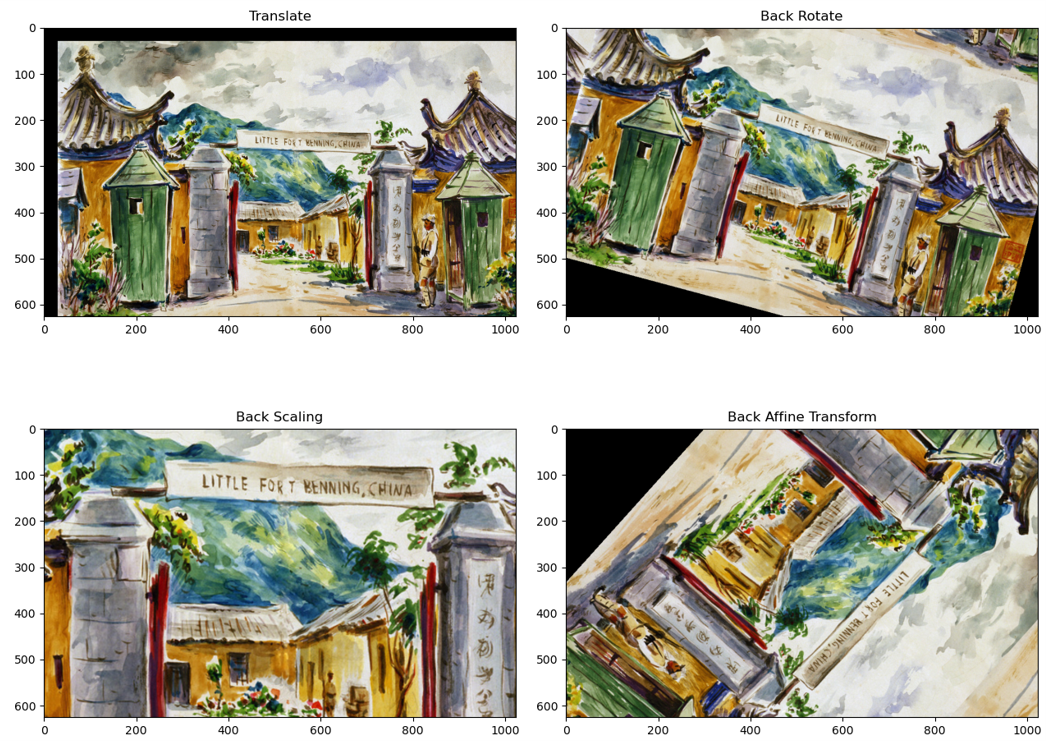
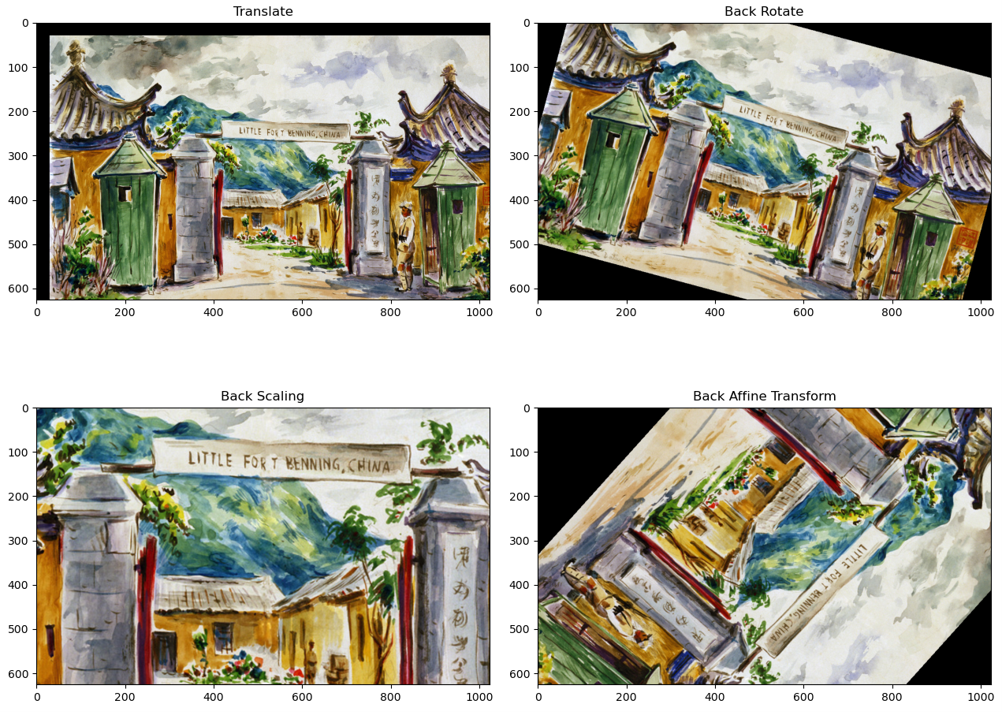
update transform code

diff --git a/src/transform/affine_transform.py b/src/transform/affine_transform.py
@@ -16,9 +16,11 @@ class AffineTransform2D(object):
         if img is None:            
             width, height = self.width, self.height
             img = self.img
+            cx, cy = self.cx, self.cy
         else:                        
             width, height = img.size
             img = np.array(img.getdata()).reshape(height, width, 3).tolist()
+            cx, cy = width // 2, height // 2
 
         output_img = [[[0 for _ in range(3)] for _ in range(width)] for _ in range(height)]
 
@@ -114,10 +116,11 @@ class AffineTransform2D(object):
                 for ch in range(3):
                     rx = round(cx + math.cos(theta) * (x - cx) - math.sin(theta) * (y - cy))
                     ry = round(cy + math.sin(theta) * (x - cx) + math.cos(theta) * (y - cy))
-                    try:
-                        output_img[ry][rx][ch] = img[y][x][ch]
-                    except:
-                        continue
+                    if 0 <= ry <= height - 1 and 0 <= rx <= width - 1:
+                        try:
+                            output_img[ry][rx][ch] = img[y][x][ch]
+                        except:
+                            continue
         return output_img
 
 
@@ -141,23 +144,24 @@ class AffineTransform2D(object):
                     origin_pos_x = cx + math.cos(-theta) * (x - cx) - math.sin(-theta) * (y - cy)
                     origin_pos_y = cy + math.sin(-theta) * (x - cx) + math.cos(-theta) * (y - cy)
 
-                    x_low = math.floor(origin_pos_x)
-                    x_up = math.ceil(origin_pos_x)
-                    y_low = math.floor(origin_pos_y)
-                    y_up = math.ceil(origin_pos_y)
-                    
-                    s = origin_pos_x - x_low
-                    t = origin_pos_y - y_low
+                    if 0 <= origin_pos_y <= height - 1 and 0 <= origin_pos_x <= width - 1:
+                        x_low = math.floor(origin_pos_x)
+                        x_up = math.ceil(origin_pos_x)
+                        y_low = math.floor(origin_pos_y)
+                        y_up = math.ceil(origin_pos_y)
+                        
+                        s = origin_pos_x - x_low
+                        t = origin_pos_y - y_low
 
-                    try:
-                        p1 = img[y_low][x_low][ch]
-                        p2 = img[y_low][x_up][ch]
-                        p3 = img[y_up][x_low][ch]
-                        p4 = img[y_up][x_up][ch]
+                        try:
+                            p1 = img[y_low][x_low][ch]
+                            p2 = img[y_low][x_up][ch]
+                            p3 = img[y_up][x_low][ch]
+                            p4 = img[y_up][x_up][ch]
 
-                        output_img[y][x][ch] = int((1 - s) * (1 - t) * p1 + (1 - s) * t * p3 + (1 - t) * s * p2 + s * t * p4)
-                    except:
-                        continue
+                            output_img[y][x][ch] = int((1 - s) * (1 - t) * p1 + (1 - s) * t * p3 + (1 - t) * s * p2 + s * t * p4)
+                        except:
+                            continue
         return output_img
 
 
@@ -185,12 +189,13 @@ class AffineTransform2D(object):
         for y in range(self.height):
             for x in range(self.width):
                 for ch in range(3):
-                    ax = round(cx + (a * (x - cx) + b * (y - cy) + c))
-                    ay = round(cy + (d * (x - cx) + e * (y - cy) + f))
-                    try:
-                        output_img[ax][ay][ch] = img[y][x][ch]
-                    except:
-                        continue
+                    ax = int(cx + (a * (x - cx) + b * (y - cy) + c))
+                    ay = int(cy + (d * (x - cx) + e * (y - cy) + f))
+                    if 0 <= ay <= height - 1 and 0 <= ax <= width - 1:
+                        try:
+                            output_img[ay][ax][ch] = img[y][x][ch]
+                        except:
+                            continue
 
         return output_img
 
@@ -223,23 +228,24 @@ class AffineTransform2D(object):
                 for ch in range(3):
                     origin_pos_x = cx + (a * (x - cx) + b * (y - cy) + c)
                     origin_pos_y = cy + (d * (x - cx) + e * (y - cy) + f)
-
-                    x_low = math.floor(origin_pos_x)
-                    x_up = math.ceil(origin_pos_x)
-                    y_low = math.floor(origin_pos_y)
-                    y_up = math.ceil(origin_pos_y)
                     
-                    s = origin_pos_x - x_low
-                    t = origin_pos_y - y_low
+                    if 0 <= origin_pos_y <= height - 1 and 0 <= origin_pos_x <= width - 1:
+                        x_low = math.floor(origin_pos_x)
+                        x_up = math.ceil(origin_pos_x)
+                        y_low = math.floor(origin_pos_y)
+                        y_up = math.ceil(origin_pos_y)
+                        
+                        s = origin_pos_x - x_low
+                        t = origin_pos_y - y_low
 
-                    try:
-                        p1 = img[y_low][x_low][ch]
-                        p2 = img[y_low][x_up][ch]
-                        p3 = img[y_up][x_low][ch]
-                        p4 = img[y_up][x_up][ch]
+                        try:
+                            p1 = img[y_low][x_low][ch]
+                            p2 = img[y_low][x_up][ch]
+                            p3 = img[y_up][x_low][ch]
+                            p4 = img[y_up][x_up][ch]
 
-                        output_img[y][x][ch] = int((1 - s) * (1 - t) * p1 + (1 - s) * t * p3 + (1 - t) * s * p2 + s * t * p4)                    
-                    except:
-                        continue
+                            output_img[y][x][ch] = int((1 - s) * (1 - t) * p1 + (1 - s) * t * p3 + (1 - t) * s * p2 + s * t * p4)                    
+                        except:
+                            continue
 
         return output_img
